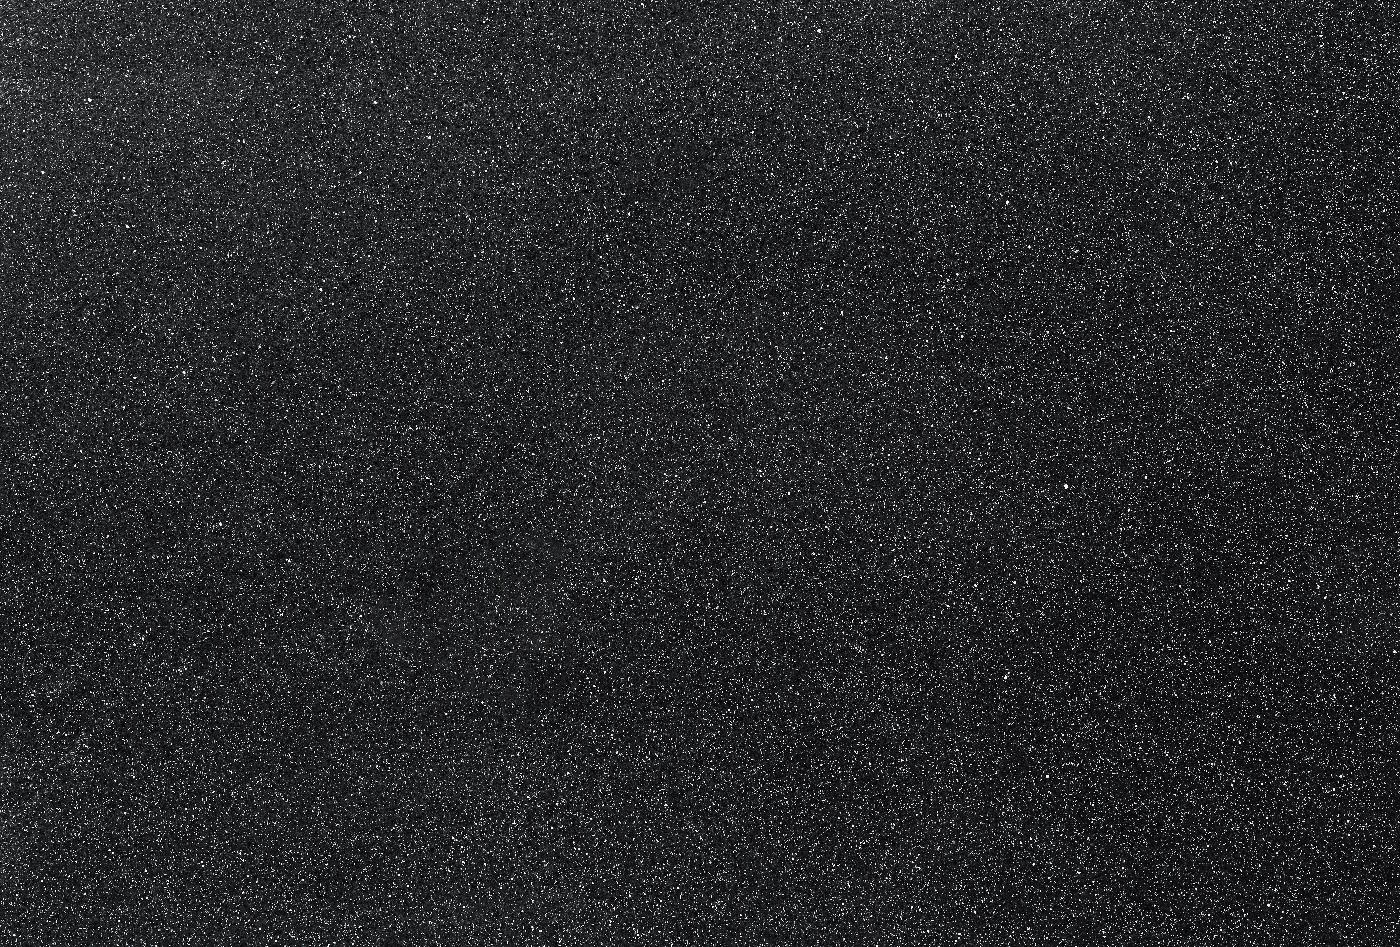
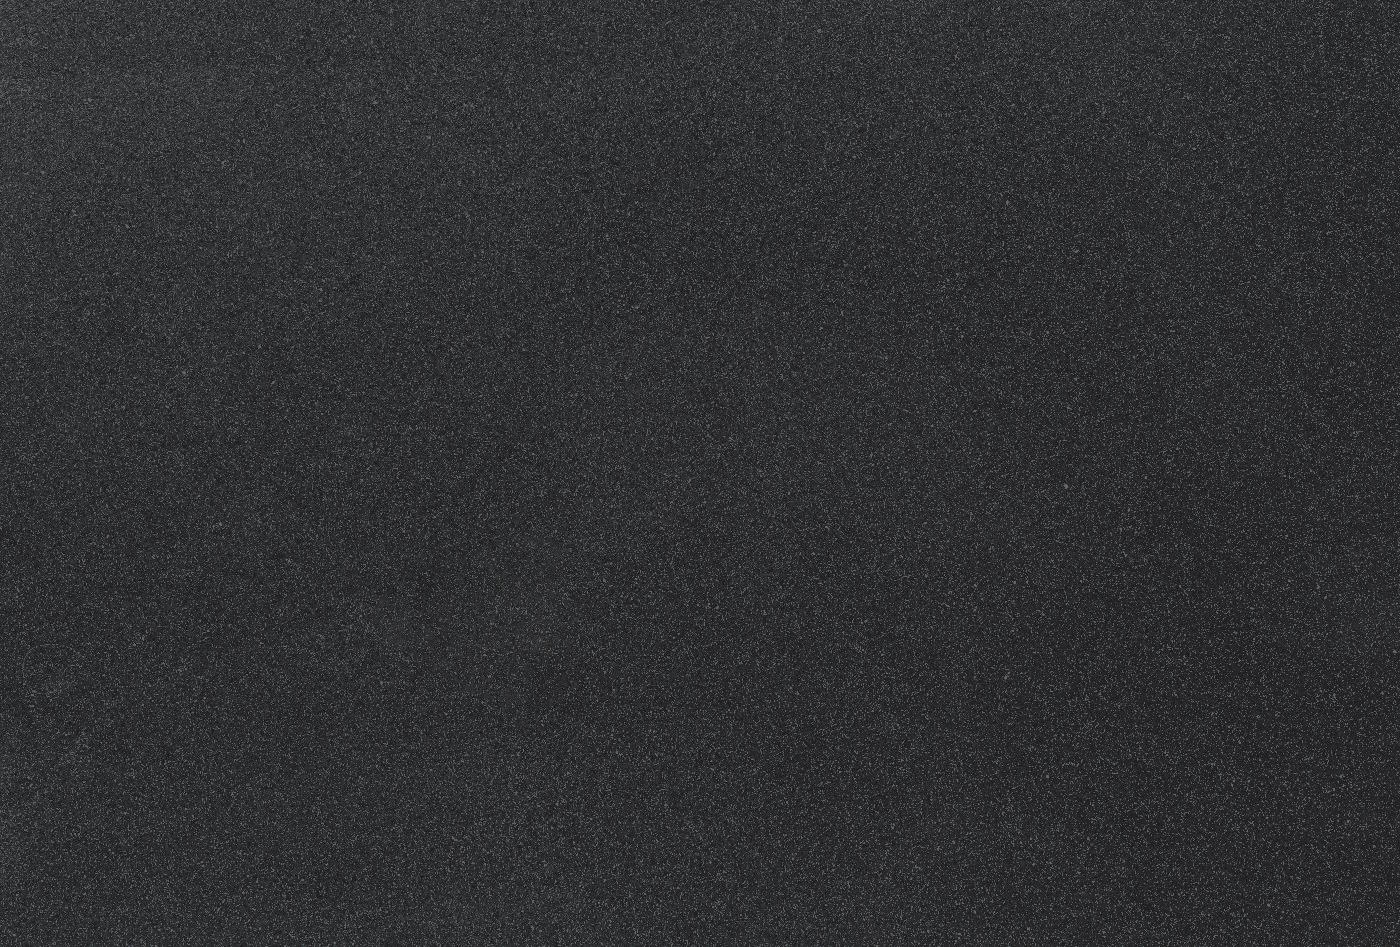
[NT]Update styling

Changed region(s): [[0.0, 0.0, 1.0, 1.0]]

diff --git a/style.css b/style.css
@@ -12,7 +12,7 @@ body {
     flex-direction: column;
     overflow: hidden;
     padding-top: 50px; /* adjust spacing from top if needed */
-    background: linear-gradient(145deg, #f1e8c2, #ded1af);
+    background: linear-gradient(145deg, #f1e7c4, #dbbca0);
     color: #3a3a3a;
     font-family: 'Roboto', 'Segoe UI', sans-serif;
     align-items: center;
@@ -31,46 +31,75 @@ body::before {
     background-position: 0 0;
     background-repeat: repeat; /* tile the image */
     content: "";
-    opacity: 0.07; /* subtle tactile effect */
+    opacity: 0.13; /* subtle tactile effect */
     pointer-events: none;
 }
 
 /* --- Page Title (Inset Text) --- */
 h1 {
     margin-bottom: 30px;
-    color: #3a3a3a;
+    color: #3a3a3ae3;
     text-align: center;
     text-shadow:
         1px 1px 0 #fff6dc,
        -1px -1px 0 #d8cba2,
         1px -1px 0 #e6dfc5,
        -1px 1px 0 #d2c7a1;
-    letter-spacing: 2px;
     font-weight: 900;
     font-size: 2.4rem;
 }
 
+.mainContainer {
+    position: relative; /* sit above the noise */
+    z-index: 1;
+    display: flex;
+    flex-direction: column;
+    width: 100%;
+    align-items: center;
+    justify-content: flex-start;
+}
+
+.buttonContainer, .buttonContainerContainer, .outputContainerContainer, .outputContainer {
+    box-sizing: border-box;
+    border-radius: 16px;
+}
+
+.buttonContainer {
+    padding: 6px;
+    padding-bottom: 9px;
+    box-shadow:
+        2px 2px 4px rgba(0,0,0,0.15),
+        -2px -2px 4px rgba(255, 250, 224, 0.45);
+}
+
+.buttonContainerContainer {
+    margin-bottom: 40px;
+    padding: 1px;
+    padding-bottom: 4px;
+    box-shadow:
+        -2px -2px 8px rgba(0,0,0,0.15),
+        2px 2px 4px rgba(255, 253, 240, 0.55);
+}
+
 button#generateBtn {
     position: relative;
-    margin-bottom: 40px;
     padding: 18px 36px;
     border: none;
     border-radius: 14px;
-
     /* Base gradient for beige cassette-futurism */
     background:
-        linear-gradient(145deg, #e5d0a4, #f0deb9),
+        linear-gradient(145deg, #e6dbb1, #f0e6c0),
         url('noise.jpg');
     background-size: cover;
     background-repeat: repeat;
 
     box-shadow:
-        0 6px 0 #b7a17d,           /* main shadow under button */
-        0 2px 6px rgba(0,0,0,0.25), /* soft ambient shadow */
-        inset 0 2px 4px rgba(255,255,255,0.4),  /* subtle highlight top */
-        inset 0 -2px 6px rgba(0,0,0,0.15);     /* subtle inner shadow bottom */
+        0 3px 0 #9f836c,           /* main shadow under button */
+        0 1px 2px rgba(0,0,0,0.25), /* soft ambient shadow */
+        inset 0 2px 4px rgba(255,255,255,0.6),  /* subtle highlight top */
+        inset 0 -2px 6px rgba(0,0,0,0.25);     /* subtle inner shadow bottom */
 
-    color: #3a3a3a;
+    color: #3a3a3ad4;
     text-shadow: 0 1px 0 rgba(255,255,255,0.3);
     font-weight: 600;
     font-size: 1.15rem;
@@ -79,22 +108,56 @@ button#generateBtn {
     background-blend-mode: hard-light; /* makes noise overlay lightly */
 }
 
-button#generateBtn:active {
+button#generateBtn::before {
+    position: absolute;
+    top: 15%;
+    left: 5%;
+    width: 90%;
+    height: 70%;
+    border-radius: 14px;
     box-shadow:
-        0 2px 0 #b7a17d,
-        0 1px 4px rgba(0,0,0,0.2),
-        inset 0 2px 4px rgba(0,0,0,0.15),
-        inset 0 -2px 4px rgba(255,255,255,0.25);
-    transform: translateY(6px);
+        inset 0 4px 14px rgba(0, 0, 0, 0.1),  /* subtle shadow inside */
+        inset 0 -4px 14px rgba(249, 255, 199, 0.4),  /* subtle highlight inside */
+        0 -2px 4px rgba(0, 0, 0, 0.2),  /* subtle shadow around */
+        0 2px 4px rgba(250, 255, 203, 0.4);  /* subtle highlight under */
+    content: "";
+    pointer-events: none;
+
+}
+
+button#generateBtn:active {
+    box-shadow:        0 1px 0 #b7a17d,        0 1px 4px rgba(0,0,0,0.2),        inset 0 2px 4px rgba(0,0,0,0.15),        inset 0 -2px 4px rgba(255,255,255,0.25);
+    transform: translateY(2px);
+    -webkit-transform: translateY(2px);
+    -moz-transform: translateY(2px);
+    -ms-transform: translateY(2px);
+    -o-transform: translateY(2px);
+}
+
+.outputContainerContainer {
+    padding: 9px;
+    max-width: 520px;
+    width: 80%;
+    box-shadow:
+        -2px -2px 8px rgba(0,0,0,0.1),
+        2px 2px 4px rgba(241, 232, 219, 0.65);
+}
+
+.outputContainer {
+    padding: 9px;
+    width: 100%;
+    box-shadow:
+        5px 5px 24px rgba(0,0,0,0.25),
+        -5px -5px 24px rgb(255, 250, 226);
 }
 
 /* --- Output Container (Enhanced Purely Inset) --- */
 .output {
     position: relative; /* sit above the noise */
     z-index: 1;
+    box-sizing: border-box;
     padding: 30px 25px;
-    max-width: 520px;
-    width: 80%;
+    width: 100%;
     border-radius: 20px;
 
     /* Slightly darker interior for proper inset */
@@ -102,8 +165,8 @@ button#generateBtn:active {
 
     /* purely inset with directional shading for depth */
     box-shadow:
-        inset 4px 4px 8px rgba(0, 0, 0, 0.15),   /* bottom-right shadow (walls) */
-        inset -4px -4px 8px rgba(255, 255, 255, 0.1); /* top-left light */
+        inset 4px 4px 20px rgba(0, 0, 0, 0.25),
+        inset -4px -4px 20px rgba(255, 239, 224, 0.8);
 
     transition: all 0.3s ease;
 }
@@ -118,7 +181,7 @@ button#generateBtn:active {
 /* Name / Skill / Item Headers */
 span.name {
     margin-bottom: 12px;
-    color: #5a4a3b;
+    color: #5a4a3bde;
     text-shadow:
         0.5px 0.5px 0 #fff6dc,
        -0.5px -0.5px 0 #d8cba2,
@@ -130,7 +193,7 @@ span.name {
 
 /* Skill / Effect Text */
 span.skill, span.cd, span.size, span.rarity {
-    color: #3a3a3a;
+    color: #3a3a3ae2;
     font-weight: 500;
     font-size: 1rem;
 }

diff --git a/index.html b/index.html
@@ -19,11 +19,21 @@
         <link rel="stylesheet" href="style.css" />
     </head>
     <body>
-        <h1>Bazaar Brainstomer</h1>
-        <button id="generateBtn">Generate Random Skill / Item</button>
-
-        <div class="output" id="output">Click the button...</div>
-
+        <div class="mainContainer">
+            <h1>Bazaar Brainstormer</h1>
+            <div class="buttonContainerContainer">
+                <div class="buttonContainer">
+                    <button id="generateBtn">
+                        Generate Random Skill / Item
+                    </button>
+                </div>
+            </div>
+            <div class="outputContainerContainer">
+                <div class="outputContainer">
+                    <div class="output" id="output"></div>
+                </div>
+            </div>
+        </div>
         <footer>
             Made by
             <span class="credit-handle" data-handle="@YaomonKS">@YaomonKS</span>
